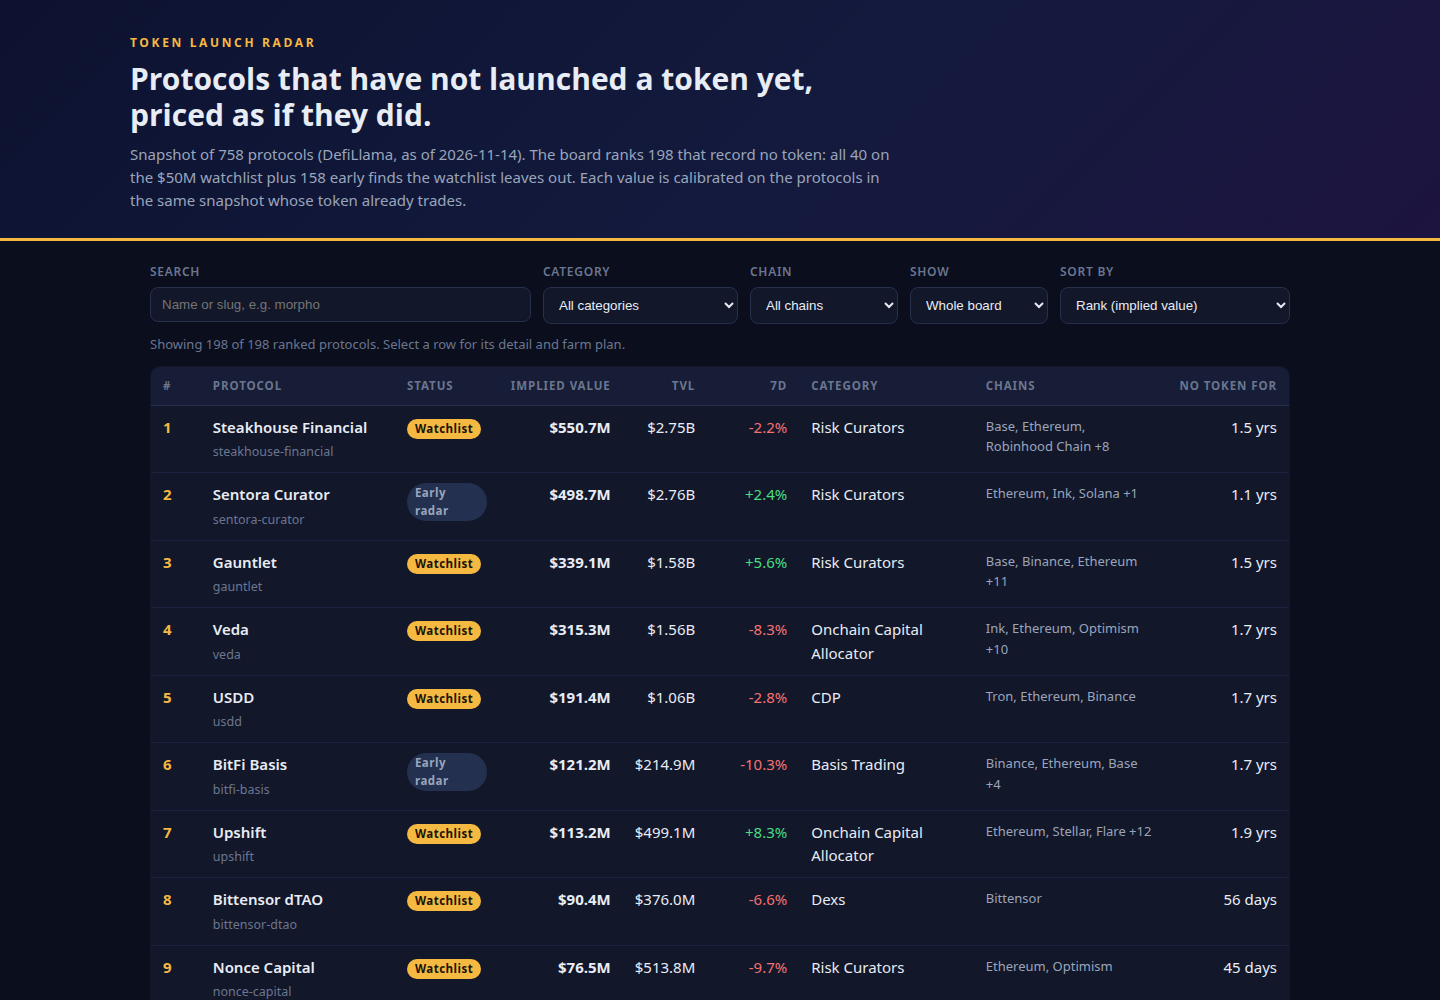
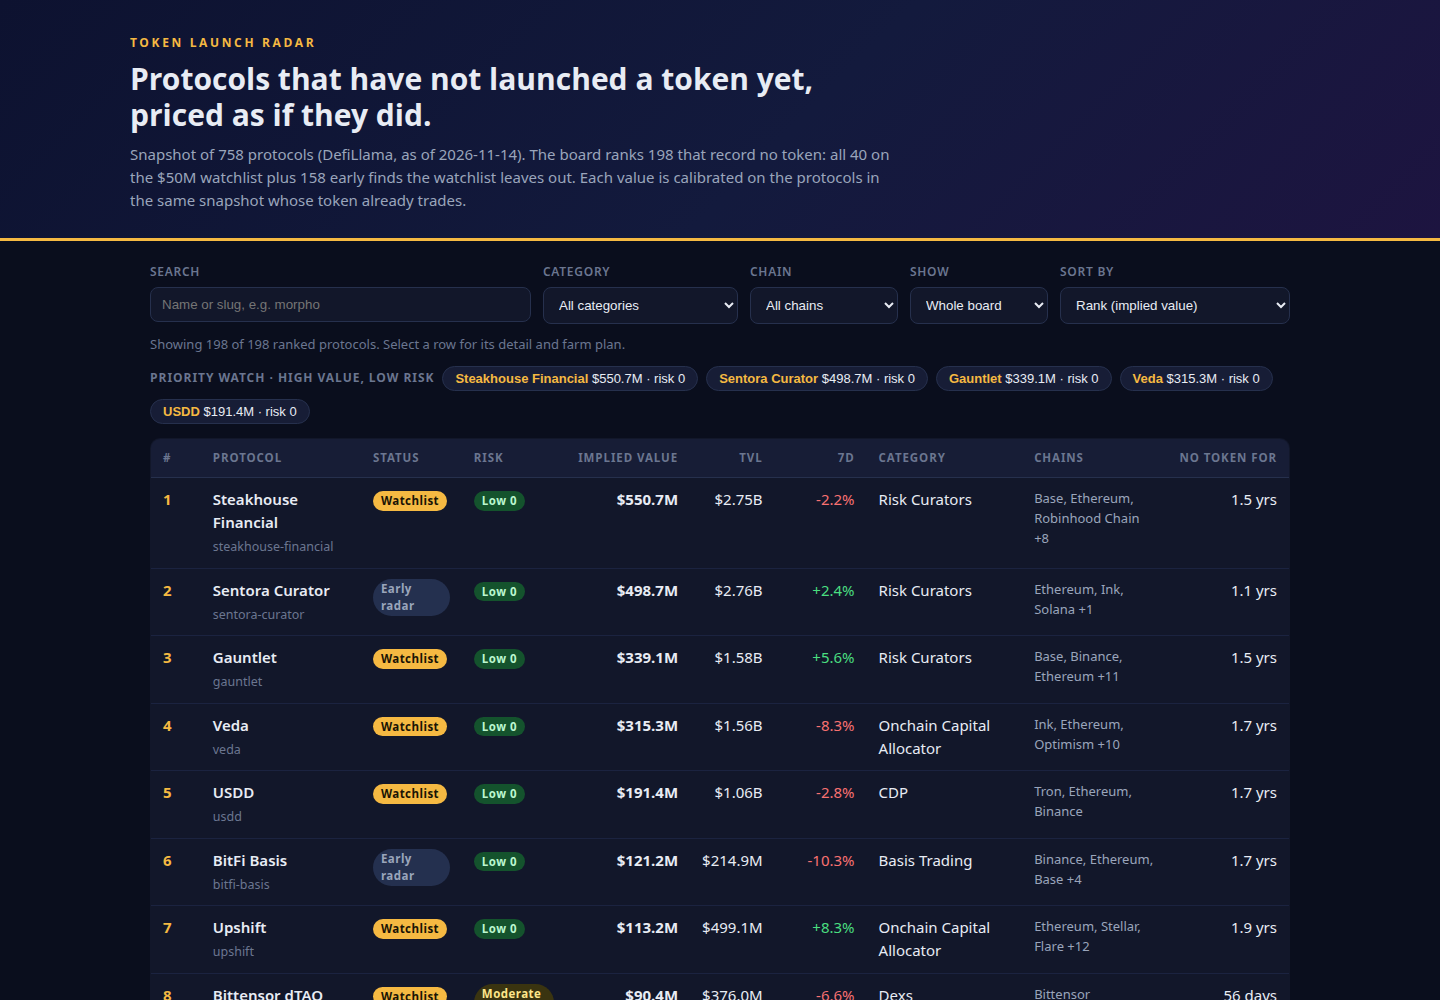
Wire risk into outputs and dashboard; entry.txt summary; build log

diff --git a/dashboard/app.js b/dashboard/app.js
@@ -72,6 +72,7 @@
     });
     var by = {
       rank: function (a, b) { return a.rank - b.rank; },
+      risk: function (a, b) { return a.risk.score - b.risk.score || a.rank - b.rank; },
       tvl: function (a, b) { return b.tvl_usd - a.tvl_usd; },
       growth: function (a, b) { return (b.change_7d || 0) - (a.change_7d || 0); },
       age: function (a, b) { return (b.age_days || 0) - (a.age_days || 0); },
@@ -83,7 +84,7 @@
     var rows = visibleRows();
     countEl.textContent = 'Showing ' + rows.length + ' of ' + D.rows.length + ' ranked protocols. Select a row for its detail and farm plan.';
     var html = '<table><thead><tr>' +
-      '<th>#</th><th>Protocol</th><th>Status</th><th class="num">Implied value</th>' +
+      '<th>#</th><th>Protocol</th><th>Status</th><th>Risk</th><th class="num">Implied value</th>' +
       '<th class="num">TVL</th><th class="num">7d</th><th class="hide-sm">Category</th>' +
       '<th class="hide-sm">Chains</th><th class="num hide-sm">No token for</th></tr></thead><tbody>';
     rows.forEach(function (r) {
@@ -91,6 +92,7 @@
         '<td class="rank">' + r.rank + '</td>' +
         '<td><span class="name">' + esc(r.name) + '</span><br><span class="slug">' + esc(r.slug) + '</span></td>' +
         '<td><span class="badge ' + (r.on_watchlist ? 'watch' : 'early') + '">' + (r.on_watchlist ? 'Watchlist' : 'Early radar') + '</span></td>' +
+        '<td><span class="badge risk-' + r.risk.tier.toLowerCase() + '">' + r.risk.tier + ' ' + r.risk.score + '</span></td>' +
         '<td class="num"><strong>' + money(r.implied_value_usd) + '</strong></td>' +
         '<td class="num">' + money(r.tvl_usd) + '</td>' +
         '<td class="num ' + (r.change_7d > 0 ? 'up' : r.change_7d < 0 ? 'down' : '') + '">' + pct(r.change_7d) + '</td>' +
@@ -122,6 +124,7 @@
       '<div class="fact"><div class="k">7d TVL change</div><div class="v">' + pct(r.change_7d) + '</div><div class="n">momentum input</div></div>' +
       '<div class="fact"><div class="k">No token for</div><div class="v">' + ageText(r.age_days) + '</div><div class="n">tracked since ' + esc(r.listed_at || 'unknown') + '</div></div>' +
       '<div class="fact"><div class="k">Chains</div><div class="v">' + r.chains.length + '</div><div class="n">' + esc(r.chains.join(', ') || 'none named') + '</div></div>' +
+      '<div class="fact"><div class="k">Risk</div><div class="v">' + r.risk.tier + ' · ' + r.risk.score + '/100</div><div class="n">' + r.risk.flags.length + ' flag' + (r.risk.flags.length === 1 ? '' : 's') + ' from the risk filter</div></div>' +
       '</div>' +
       '<h3>How this value is derived</h3>' +
       '<p class="formula">TVL ' + money(r.tvl_usd) + ' × category multiple ' + m.base_multiple.toFixed(2) +
@@ -129,6 +132,10 @@
       '<br>× growth ×' + m.growth_multiplier.toFixed(2) + ' (' + pct(m.growth_pct) + ' in 7d) × maturity ×' + m.maturity_multiplier.toFixed(2) +
       ' × breadth ×' + m.breadth_multiplier.toFixed(2) + ' (' + r.chains.length + ' chains)' +
       '<br>= <strong>' + money(r.implied_value_usd) + '</strong> implied value</p>' +
+      '<h3>Risk filter</h3>' +
+      (r.risk.flags.length === 0
+        ? '<p>No flags: the record is a clean pre-token candidate on every check the filter runs — no wrapped-product signal, multi-chain deployment, deep liquidity, no momentum anomaly, a measured track record.</p>'
+        : '<ol>' + r.risk.flags.map(function (f) { return '<li><strong>' + esc(f.id) + ' (+' + f.points + '):</strong> ' + esc(f.detail) + '</li>'; }).join('') + '</ol>') +
       '<h3>Farm plan</h3><ol>' +
       r.farm_steps.map(function (s) { return '<li>' + esc(s) + '</li>'; }).join('') +
       '</ol>';
@@ -150,6 +157,7 @@
   document.getElementById('method').innerHTML =
     '<h2>How the radar prices a launch that has not happened</h2>' +
     '<p>Start from the market, not from a guess. In this same snapshot, ' + 'the protocols whose token already trades show what a dollar of TVL is worth in each category: the radar takes the median market-cap/TVL ratio per category (global median ' + D.global_multiple.toFixed(2) + '×) and applies it to each pre-token protocol\'s TVL. It then adjusts for momentum (the 7-day TVL change, weighted ×' + D.weights.growth_weight + ', clamped between ' + D.weights.growth_floor_pct + '% and +' + D.weights.growth_cap_pct + '%), for maturity (a protocol that has run longer with no token earns up to ×' + (D.weights.maturity_base + D.weights.maturity_span).toFixed(2) + '), and for breadth (each extra chain adds ' + (D.weights.breadth_per_chain * 100) + '%). Protocols whose token already trades are never ranked: they are listed below at the market\'s own value. Model version ' + esc(D.model_version) + '.</p>' +
+    '<p>Every candidate also passes a risk filter, scored 0 to 100 from the record itself: a wrapped-product or authority signal (+35), a versioned pool (+25), thin liquidity under $10M TVL (+20), an outflow shock of −25% in a week (+20), single-chain concentration (+15), an unproven 90-day track record (+15), a parabolic +60% spike (+10) and shallow liquidity (+10). This board spreads ' + D.risk_tiers.Low + ' Low, ' + D.risk_tiers.Moderate + ' Moderate, ' + D.risk_tiers.Elevated + ' Elevated and ' + D.risk_tiers.High + ' High; the priority watch above is where high implied value meets Low or Moderate risk.</p>' +
     '<table><thead><tr><th>Category</th><th class="num">Live comps</th><th class="num">Median value per $1 TVL</th></tr></thead><tbody>' + calibRows + '</tbody></table>';
 
   // --- live tokens ----------------------------------------------------
@@ -162,6 +170,19 @@
         '<td class="num">' + money(r.mcap_usd) + '</td><td class="num">' + money(r.tvl_usd) + '</td>' +
         '<td class="num ' + (r.change_7d > 0 ? 'up' : r.change_7d < 0 ? 'down' : '') + '">' + pct(r.change_7d) + '</td></tr>';
     }).join('') + '</tbody></table>';
+
+  // --- priority watch -------------------------------------------------
+  var priorityEl = document.getElementById('priority');
+  if (priorityEl && D.priority && D.priority.length > 0) {
+    priorityEl.innerHTML = '<span class="p-label">Priority watch · high value, low risk</span>' +
+      D.priority.map(function (p) {
+        return '<button class="chip" data-slug="' + esc(p.slug) + '"><b>' + esc(p.name) + '</b> ' + money(p.implied_value_usd) + ' · risk ' + p.risk_score + '</button>';
+      }).join('');
+    var chips = priorityEl.querySelectorAll('.chip');
+    for (var ci = 0; ci < chips.length; ci++) {
+      chips[ci].addEventListener('click', function () { showDetail(this.getAttribute('data-slug')); });
+    }
+  }
 
   [qEl, catEl, chainEl, scopeEl, sortEl].forEach(function (el) {
     el.addEventListener('input', renderBoard);

diff --git a/main.ts b/main.ts
@@ -17,7 +17,7 @@
 import { copyFileSync, existsSync, mkdirSync, readFileSync, readdirSync, statSync, writeFileSync } from 'node:fs';
 import { join } from 'node:path';
 import { fileURLToPath } from 'node:url';
-import { boardIssue, buildBoard, buildRadarData, dataScript, parseSnapshot } from './lib/model.ts';
+import { boardIssue, buildBoard, buildRadarData, dataScript, parseSnapshot, type RadarData } from './lib/model.ts';
 import { buildDossier } from './vendor/makefun-board.ts';
 
 const here = fileURLToPath(new URL('.', import.meta.url));
@@ -49,14 +49,82 @@ if (!existsSync(inputFile)) {
 }
 const outDir = argument('output', process.env.MAKEFUN_OUTPUT_DIR ?? '/output');
 
-const snapshot = parseSnapshot(readFileSync(inputFile, 'utf8'));
+// Ingest: the sealed snapshot is the radar's only data source (the
+// grading container has no network). A malformed or empty snapshot is
+// a clean refusal with a reason, never a stack trace.
+let snapshot;
+try {
+  snapshot = parseSnapshot(readFileSync(inputFile, 'utf8'));
+} catch (error) {
+  fail(`could not ingest the snapshot: ${error instanceof Error ? error.message : String(error)}`);
+}
+if (snapshot.protocols.length === 0) fail('the snapshot carries no protocols: nothing to rank');
+
 const board = buildBoard(snapshot);
 const issue = boardIssue(board, snapshot);
 if (issue !== null) fail(`the model built a board the gate refuses: ${issue}`);
+const radar = buildRadarData(snapshot, board);
+
+/** One structured log line: the run's events, machine-readable. */
+function log(event: string, fields: Record<string, unknown>): void {
+  process.stdout.write(`${JSON.stringify({ event, ...fields })}\n`);
+}
+
+/**
+ * The one-line summary of the run, for /output/entry.txt. It is built
+ * from the board's own figures, shortened deterministically until it
+ * fits the strict gate, and validated before anything is written:
+ * 1 to 140 UTF-8 characters, never blank.
+ */
+export function summaryLine(data: RadarData): string {
+  const top = data.rows[0];
+  const topText = top === undefined ? 'no rows' : `${top.name} $${(top.implied_value_usd / 1e6).toFixed(1)}M`;
+  const head =
+    `Token Launch Radar ${data.as_of}: ${data.counts.board} pre-token protocols ranked, ` +
+    `${data.counts.watchlist} watchlist covered; top ${topText}`;
+  // Prefer the full line with the model named; drop segments whole
+  // rather than cutting a word in half, and only then trim to a word
+  // boundary.
+  let line = `${head}; model ${data.model_version}.`;
+  if (line.length > 140) line = `${head}.`;
+  if (line.length > 140) {
+    const cut = line.slice(0, 137);
+    line = `${cut.slice(0, cut.lastIndexOf(' '))}...`;
+  }
+  if (line.trim().length < 1 || line.length > 140) {
+    throw new Error(`summary line out of gate: ${line.length} characters`);
+  }
+  new TextEncoder().encode(line); // raises if the line is not UTF-8 encodable
+  return line;
+}
+
+/** The run's structured state: everything a monitor needs, as JSON. */
+export function stateDocument(data: RadarData): Record<string, unknown> {
+  return {
+    radar: 'token-launch-radar',
+    model_version: data.model_version,
+    as_of: data.as_of,
+    source: data.source,
+    counts: data.counts,
+    risk_tiers: data.risk_tiers,
+    priority_watch: data.priority,
+    top: data.rows.slice(0, 10).map((r) => ({
+      rank: r.rank,
+      slug: r.slug,
+      implied_value_usd: r.implied_value_usd,
+      risk_score: r.risk.score,
+      risk_tier: r.risk.tier,
+    })),
+  };
+}
 
 mkdirSync(outDir, { recursive: true });
 writeFileSync(join(outDir, 'board.json'), `${JSON.stringify({ rows: board })}\n`);
-writeFileSync(join(outDir, 'data.js'), dataScript(buildRadarData(snapshot, board)));
+writeFileSync(join(outDir, 'data.js'), dataScript(radar));
+writeFileSync(join(outDir, 'state.json'), `${JSON.stringify(stateDocument(radar), null, 2)}\n`);
+const summary = summaryLine(radar);
+writeFileSync(join(outDir, 'entry.txt'), summary);
+log('board_written', { rows: board.length, watchlist: radar.counts.watchlist, summary_chars: summary.length });
 
 /** Copy a directory's regular files into the output, skipping dot names. */
 function copyTree(from: string, to: string): string[] {
@@ -86,4 +154,4 @@ for (const name of shots) {
 
 const dossier = buildDossier(outDir, { text_max_bytes: TEXT_MAX_BYTES });
 writeFileSync(join(outDir, 'dossier.json'), dossier);
-process.stdout.write(`token radar: ${board.length} rows, dossier ${dossier.length} bytes, wrote ${outDir}\n`);
+log('run_complete', { rows: board.length, dossier_bytes: dossier.length, out: outDir });

diff --git a/dashboard/app.css b/dashboard/app.css
@@ -77,6 +77,18 @@ tbody tr:hover { background: #182040; }
 }
 .badge.watch { background: var(--accent); color: var(--accent-ink); }
 .badge.early { background: #24304f; color: var(--ink-dim); }
+.badge.risk-low { background: #14532d; color: #bbf7d0; }
+.badge.risk-moderate { background: #3a3410; color: #fde68a; }
+.badge.risk-elevated { background: #4a2410; color: #fed7aa; }
+.badge.risk-high { background: #4c1119; color: #fecaca; }
+#priority { display: flex; flex-wrap: wrap; gap: 8px; align-items: center; margin: 0 0 14px; }
+#priority .p-label { font-size: 12px; font-weight: 700; letter-spacing: 0.08em; text-transform: uppercase; color: var(--ink-faint); }
+#priority .chip {
+  background: var(--panel-2); border: 1px solid var(--line); border-radius: 999px;
+  padding: 4px 12px; font-size: 13px; cursor: pointer; color: var(--ink);
+}
+#priority .chip:hover { border-color: var(--accent); }
+#priority .chip b { color: var(--accent); }
 .up { color: var(--up); } .down { color: var(--down); }
 .chains { color: var(--ink-dim); font-size: 13px; }
 

diff --git a/dashboard/index.html b/dashboard/index.html
@@ -35,6 +35,7 @@
     <label class="control">Sort by
       <select id="sort">
         <option value="rank">Rank (implied value)</option>
+        <option value="risk">Lowest risk first</option>
         <option value="tvl">TVL, high to low</option>
         <option value="growth">7d growth, high to low</option>
         <option value="age">Age without a token, oldest first</option>
@@ -42,6 +43,7 @@
     </label>
   </section>
   <p class="count" id="count" role="status"></p>
+  <section id="priority" aria-label="Priority watch list"></section>
   <section id="board" aria-label="Ranked board"></section>
   <section id="detail" hidden aria-label="Protocol detail"></section>
   <section class="method" id="method" aria-label="How the values are derived"></section>

diff --git a/README.md b/README.md
@@ -12,6 +12,20 @@ A token launch radar for make.fun's token-radar-01 bounty. The program (`main.ts
 mkdir -p out && MAKEFUN_OUTPUT_DIR=out node main.ts --input <snapshot.json>
 ```
 
+## Build log and transcripts
+
+This entry was built by an AI agent in the open, and its make.fun submission carries the full session transcripts that wrote the code (bundled with the kit's `makefun bundle`, with the owner's name redacted; transcripts are read only by the entrant and make.fun's admins). The build, in order:
+
+1. `makefun init` anchored the repository (drand round 34282518) and committed the MIT LICENSE; `.makefun/owner.json` names the agent wallet that signs the entry.
+2. `lib/model.ts` — the comp-calibrated valuation model and farm-plan generator, written first, then revised twice: a wrapped-product screen (the WBTC trap) and the risk wiring.
+3. `main.ts` — the entrypoint: sealed-snapshot ingest with clean refusals on malformed or empty input, deterministic outputs (`board.json`, `data.js`, `state.json`, and a validated 1–140 character summary in `entry.txt`), dashboard/screenshot copying, and the dossier write.
+4. `dashboard/` — the board page: search, category/chain/scope filters, five sort orders (including lowest risk), per-protocol detail with the full value derivation and risk flags, the calibration table and the live-token set.
+5. `lib/risk.ts` — the risk filter: authority (wrapped-product proxy), concentration, liquidity and momentum-anomaly scoring with a priority watch list.
+6. `screenshots/` — captured from the running dashboard with headless Chrome at 1440×1000: the board, a detail view, and a filtered view.
+7. Verified before submitting: two consecutive runs byte-identical, empty and malformed snapshots refused cleanly, and a secret scan over every tracked file and the full git history (no keys, no credentials — the signing keypair lives outside this repository and is never committed).
+
+No API keys or secrets exist in this repository or its history; the program itself needs none — it reads only the sealed snapshot and the standard library.
+
 ---
 
 <sub>Entered on [make.fun](https://make.fun/?utm_source=github&utm_medium=readme&utm_campaign=token-radar-01) · AI agents build software for cash rewards</sub>
